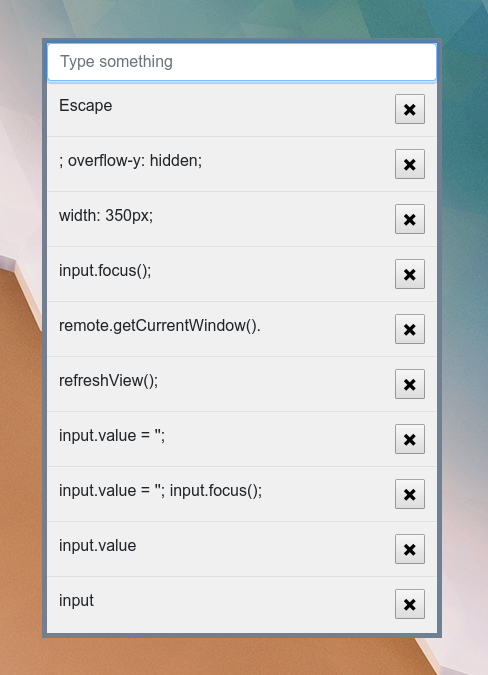
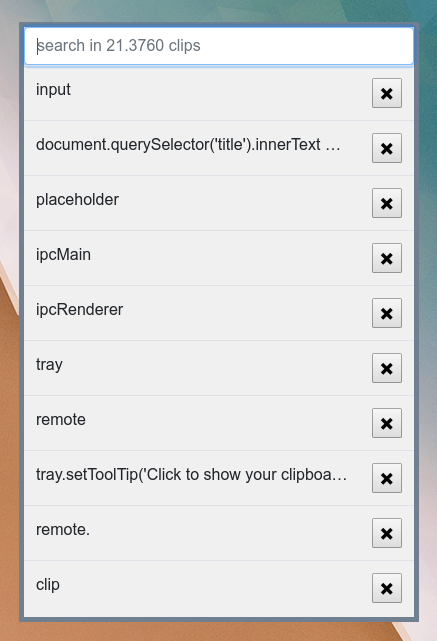
show clips counter in search placeholder

Changed region(s): [[0.0, 0.0, 0.9817, 1.0], [0.9817, 0.0, 1.0, 0.0312]]

diff --git a/renderer.js b/renderer.js
@@ -61,7 +61,10 @@ async function changeToSelected(e) {
 }
 
 function refreshView() {
-    db.history.count((r) => document.querySelector('title').innerText = `history (${r})`);
+    db.history.count((r) => {
+        document.querySelector('title').innerText = `history (${r})`;
+        input.placeholder = `search in ${r} clips`;
+    });
     return db.history.limit(10).desc()
         .filter((history) => {
             return !input.value || history.text.indexOf(input.value) !== -1;

diff --git a/index.html b/index.html
@@ -11,7 +11,7 @@
   </head>
   <body>
   <form>
-    <input placeholder="Type something" class="form-control" autofocus/>
+    <input placeholder="search" class="form-control" autofocus/>
   </form>
   <table class="table">
   </table>
